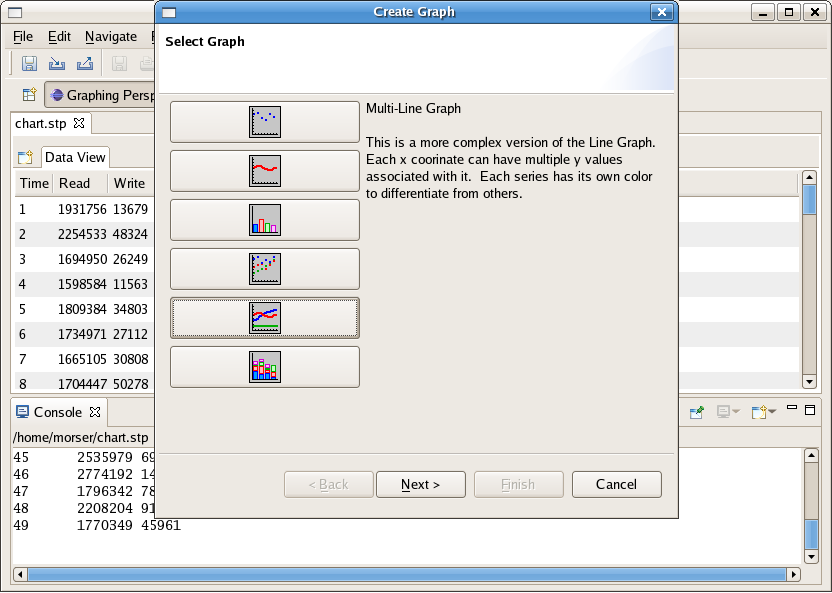
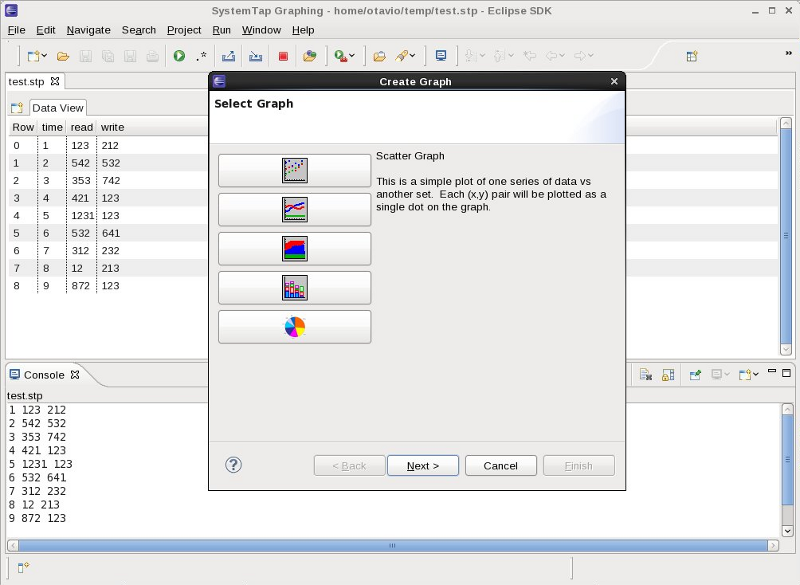
Systemtap: Updating the documentation again.
Fixing chart and installation sections. Renaming SystemTap GUI to
SystemTap plug-in in some areas of the documentation.

diff --git a/systemtap/org.eclipse.linuxtools.systemtap.ui.doc/Linux_Tools_Project/Systemtap/User_Guide/SystemTap-Graphing.html b/systemtap/org.eclipse.linuxtools.systemtap.ui.doc/Linux_Tools_Project/Systemtap/User_Guide/SystemTap-Graphing.html
@@ -2,7 +2,7 @@
 <html xmlns="http://www.w3.org/1999/xhtml">
 	<head>
 		<meta http-equiv="Content-Type" content="text/html; charset=utf-8"/>
-		<title>SystemTap GUI User Guide - SystemTap Graphing</title>
+		<title>SystemTap User Guide - SystemTap Graphing</title>
 		<link type="text/css" rel="stylesheet" href="../../../book.css"/>
 	</head>
 	<body>
@@ -32,28 +32,25 @@
 		<h1 id="SystemTap_Graphing">SystemTap Graphing</h1>
 		<h2 id="Getting_Started_2">Getting Started</h2>
 		<h3 id="Introduction">Introduction</h3>
-		<p>The Graphing Perspective in the SystemTap GUI is a perspective that is active once a user runs a script with the chart option (
+		<p>The Graphing Perspective in the SystemTap Plug-in is a perspective that is active once a user runs a script with the chart option (
 			<b><u>R</u>un-&gt;Run w/ <u>C</u>hart</b>). From this point a 
 			<a href="SystemTap-Graphing.html#DataTable">DataTable </a> is populated with live data as it is parsed from the Console. From the information in the DataTable you can generate the following graphs:
 		</p>
 		<ul>
 			<li>
-				<a href="SystemTap-Graphing.html#Bar_Graph">Bar Graph </a>
-			</li>
-			<li>
-				<a href="SystemTap-Graphing.html#Multi-Bar_Graph">Multi-Bar Graph </a>
+				<a href="SystemTap-Graphing.html#Scatter_Graph">Scatter Graph </a>
 			</li>
 			<li>
 				<a href="SystemTap-Graphing.html#Line_Graph">Line Graph </a>
 			</li>
 			<li>
-				<a href="SystemTap-Graphing.html#Multi-Line_Graph">Multi-Line Graph </a>
+				<a href="SystemTap-Graphing.html#Area_Graph">Area Graph </a>
 			</li>
 			<li>
-				<a href="SystemTap-Graphing.html#Scatter_Graph">Scatter Graph </a>
+				<a href="SystemTap-Graphing.html#Bar_Graph">Bar Graph </a>
 			</li>
 			<li>
-				<a href="SystemTap-Graphing.html#Multi-Scatter_Graph">Multi-Scatter Graph </a>
+				<a href="SystemTap-Graphing.html#Pie_Graph">Pie Graph </a>
 			</li>
 		</ul>
 		<p>These graph types can be used instantiated by using the Graph Wizard once the DataTable is populated. The Graphing Perspective can support multiple graphs from one DataTable. Each are updated and can be viewed by navigating through the tabs shown at the top of each graph.</p>
@@ -148,43 +145,42 @@ probe timer.ms(1000) {
 			</li>
 		</ul>
 		<h3 id="DataGraph_Types">DataGraph Types</h3>
-		<p>Currently there are six graph types built into SystemTap GUI.</p>
+		<p>Currently there are five graph types built into SystemTap Plug-in.</p>
 		<p>These graph types can be used instantiated by using the Graph Wizard once the DataTable is populated. The Graphing Perspective can support multiple graphs from one DataTable. Each are updated and can be viewed by navigating through the tabs shown at the top of each graph.</p>
-		<h4 id="Bar_Graph">Bar Graph</h4>
-		<p>The Bar Graph typically uses bars to show frequencies or values. </p>
-		<p>Creating a Bar Graph will prompt the user for three values. The first is the title and is fully cosmetic. The option to turn on and off the title is given to the user, and its off by default. The second option is X Series; here you select which series of data you want to plot along the X Axis. The third option is the Y Series; here you select which series of data you want to plot along the Y Axis. </p>
+		<h4 id="Scatter_Graph">Scatter Graph</h4>
+		<p>A Scatter Graph uses Cartesian coordinates to show the relation of two or more quantitative variables.</p>
+		<p>Creating a Scatter Graph will prompt the user for three values. The first is the title and is fully cosmetic. The option to turn on and off the title is given to the user, and its off by default. The second option is X Series; here you select which series of data you want to plot along the X Axis. The third option is the Y Series; here you select which series of data you want to plot along the Y Axis.
+			Optionally you can add extra Y Series; here you select another series of data you want to plot along the Y Axis.</p>
 		<p>
-			<img border="0" src="images/Bar.png"/>
-		</p>
-		<h4 id="Multi-Bar_Graph">Multi-Bar Graph</h4>
-		<p>The Multi-Bar Graph is useful for illustrating compounding series data against a fixed interval, such as time. </p>
-		<p>Creating a Multi-Bar Graph will prompt the user for four values. The first is the title and is fully cosmetic. The option to turn on and off the title is given to the user, and its off by default. The second option is X Series; here you select which series of data you want to plot along the X Axis. The third option is the first Y Series; here you select one of the series of data you want to plot along the Y Axis. The fourth option is the second Y series; here you select the other series of data you want to plot along the Y Axis.</p>
-		<p>
-			<img border="0" src="images/Multibar.png"/>
+			<img border="0" src="images/Scatter.png"/>
 		</p>
 		<h4 id="Line_Graph">Line Graph</h4>
 		<p>The Line Graph is traditionally ideal for horozontally depicting non-cumulative data over, say, time.</p>
 		<p>Creating a Line Graph will prompt the user for three values. The first is the title and is fully cosmetic. The option to turn on and off the title is given to the user, and its off by default. The second option is X Series; here you select which series of data you want to plot along the X Axis. The third option is the Y Series; here you select which series of data you want to plot along the Y Axis.
-
+			Optionally you can add extra Y Series; here you select another series of data you want to plot along the Y Axis.</p>
+		<p>
 			<img border="0" src="images/Line.png"/>
 		</p>
-		<h4 id="Multi-Line_Graph">Multi-Line Graph</h4>
-		<p>A Multi-Line Graph is useful for contrasting multiple series of data on a fixed interval, such as time.</p>
-		<p>Creating a Multi-Line Graph will prompt the user for four values. The first is the title and is fully cosmetic. The option to turn on and off the title is given to the user, and its off by default. The second option is X Series; here you select which series of data you want to plot along the X Axis. The third option is the first Y Series; here you select one of the series of data you want to plot along the Y Axis. The fourth option is the second Y series; here you select the other series of data you want to plot along the Y Axis.</p>
+		<h4 id="Area_Graph">Area Graph</h4>
+		<p>The Area Graph is traditionally ideal for horozontally depicting non-cumulative data over, say, time.</p>
+		<p>Creating an Area Graph will prompt the user for three values. The first is the title and is fully cosmetic. The option to turn on and off the title is given to the user, and its off by default. The second option is X Series; here you select which series of data you want to plot along the X Axis. The third option is the Y Series; here you select which series of data you want to plot along the Y Axis.
+			Optionally you can add extra Y Series; here you select another series of data you want to plot along the Y Axis.</p>
 		<p>
-			<img border="0" src="images/Multiline.png"/>
+			<img border="0" src="images/Area.png"/>
 		</p>
-		<h4 id="Scatter_Graph">Scatter Graph</h4>
-		<p>A Scatter Graph uses Cartesian coordinates to show the relation of two or more quantitative variables.</p>
-		<p>Creating a Scatter Graph will prompt the user for three values. The first is the title and is fully cosmetic. The option to turn on and off the title is given to the user, and its off by default. The second option is X Series; here you select which series of data you want to plot along the X Axis. The third option is the Y Series; here you select which series of data you want to plot along the Y Axis.</p>
+		<h4 id="Bar_Graph">Bar Graph</h4>
+		<p>The Bar Graph typically uses bars to show frequencies or values. </p>
+		<p>Creating a Bar Graph will prompt the user for three values. The first is the title and is fully cosmetic. The option to turn on and off the title is given to the user, and its off by default. The second option is X Series; here you select which series of data you want to plot along the X Axis. The third option is the Y Series; here you select which series of data you want to plot along the Y Axis. 
+			Optionally you can add extra Y Series; here you select another series of data you want to plot along the Y Axis.</p>
 		<p>
-			<img border="0" src="images/Scatter.png"/>
+			<img border="0" src="images/Bar.png"/>
 		</p>
-		<h4 id="Multi-Scatter_Graph">Multi-Scatter Graph</h4>
-		<p>The Multi-Scatter Graph is useful for comparing two sets of series data with multiple Y values on the same X value.</p>
-		<p>Creating a Multi-Scatter Graph will prompt the user for four values. The first is the title and is fully cosmetic. The option to turn on and off the title is given to the user, and its off by default. The second option is X Series; here you select which series of data you want to plot along the X Axis. The third option is the first Y Series; here you select one of the series of data you want to plot along the Y Axis. The fourth option is the second Y series; here you select the other series of data you want to plot along the Y Axis.</p>
+		<h4 id="Pie_Graph">Pie Graph</h4>
+		<p>The Pie Graph typically uses bars to show percentages. </p>
+		<p>Creating a Bar Graph will prompt the user for three values. The first is the title and is fully cosmetic. The option to turn on and off the title is given to the user, and its off by default. The second option is X Series; here you select which series of data you want to plot along the X Axis. The third option is the Y Series; here you select which series of data you want to plot along the Y Axis. 
+			Optionally you can add extra Y Series; here you select another series of data you want to plot along the Y Axis.</p>
 		<p>
-			<img border="0" src="images/Multiscatter.png"/>
+			<img border="0" src="images/Pie.png"/>
 		</p>
 		<h3 id="Filters">Filters</h3>
 		<p>Filters are screens that you can set on your DataTable to limit the quantity of samples you wish to work with. Filters are very often used in restricting the sheer amount of information available to make data tables and graphs more substantial to people.</p>
@@ -470,8 +466,8 @@ probe timer.ms(1000) {
 					</a>
 				</td>
 				<td style="width: 60%" align="center">
-					<a href="User-Guide.html" title="SystemTap GUI User Guide">
-						<img alt="SystemTap GUI User Guide" border="0" src="../../../images/home.gif"/>
+					<a href="User-Guide.html" title="SystemTap User Guide">
+						<img alt="SystemTap User Guide" border="0" src="../../../images/home.gif"/>
 					</a>
 				</td>
 				<td style="width: 20%" align="right">

diff --git a/systemtap/org.eclipse.linuxtools.systemtap.ui.doc/Linux_Tools_Project/Systemtap/User_Guide/SystemTap-IDE.html b/systemtap/org.eclipse.linuxtools.systemtap.ui.doc/Linux_Tools_Project/Systemtap/User_Guide/SystemTap-IDE.html
@@ -2,7 +2,7 @@
 <html xmlns="http://www.w3.org/1999/xhtml">
 	<head>
 		<meta http-equiv="Content-Type" content="text/html; charset=utf-8"/>
-		<title>SystemTap GUI User Guide - SystemTap IDE</title>
+		<title>SystemTap User Guide - SystemTap IDE</title>
 		<link type="text/css" rel="stylesheet" href="../../../book.css"/>
 	</head>
 	<body>
@@ -12,7 +12,7 @@
 			</tr>
 			<tr>
 				<td style="width: 20%" align="left">
-					<a href="User-Guide.html" title="SystemTap GUI User Guide">
+					<a href="User-Guide.html" title="SystemTap User Guide">
 						<img alt="Previous" border="0" src="../../../images/prev.gif"/>
 					</a>
 				</td>
@@ -24,7 +24,7 @@
 				</td>
 			</tr>
 			<tr>
-				<td style="width: 20%" align="left" valign="top">SystemTap GUI User Guide</td>
+				<td style="width: 20%" align="left" valign="top">SystemTap User Guide</td>
 				<td style="width: 60%" align="center"></td>
 				<td style="width: 20%" align="right" valign="top">SystemTap Graphing</td>
 			</tr>
@@ -34,7 +34,7 @@
 		<h3 id="IDE_Tutorial">IDE Tutorial</h3>
 		<h4 id="Lesson_1:_Getting_Started">Lesson 1: Getting Started</h4>
 		<p>In this tutorial we will orient you with IDE Perspective and its functions. At this point we assume
-			that you are able to run Systemtap GUI and are unfamiliar with how to procede. If you cannot yet start
+			that you are able to run Systemtap plug-in and are unfamiliar with how to procede. If you cannot yet start
 			the application, please refer to our 
 			<a href="#Installation">Installation help page</a>
 
@@ -155,11 +155,11 @@
 		<ul>
 			<li>
 				<img border="0" src="images/Graphing.png"/> 
-				<b>Graphing Perspective</b> - This perspective is invoked when the user calls the Run /w Chart option. It defaults to showing a data table containing the script results and is capable of producing six different chart types: Line Graph, Multi-Line Graph, Bar Graph, Multi-Bar Graph, Scatter Graph, and Multi-Scatter Graph.
+				<b>Graphing Perspective</b> - This perspective is invoked when the user calls the Run /w Chart option. It defaults to showing a data table containing the script results and is capable of producing six different chart types: Scatter Graph, Line Graph, Area Graph, Bar Graph, Pie Graph.
 			</li>
 			<li>
 				<img border="0" src="images/Dash.png"/>
-				<b>Dashboard Perspective</b> - This perspective is capable of storing meta-data related to each graph such as filters, aggregates, and display options in addition to showing a "dashboard" interface with multiple graphs updating simultaneously. 
+				<b>Dashboard Perspective</b> - This perspective is capable of storing meta-data related to each graph such as filters, aggregates, and display options in addition to showing a "dashboard" interface with multiple graphs updating simultaneously.
 			</li>
 		</ul>
 		<h3 id="STP_Editor">STP Editor</h3>
@@ -190,10 +190,16 @@
 		<p>
 			<img border="0" src="images/Function.png"/>
 		</p>
+		<p>The default behavior of this view is to look for functions in the tapset library in the local machine. To look for functions in the same machine used to run the SystemTap scripts, go to Window-&gt;Preferences, select SystemTap-&gt;SystemTap IDE and check the 
+			<i>Use remote connection to load SystemTap probes and functions</i> option. Don't forget to configure the remote server used by remote execution in SystemTap-&gt;Remote Server.
+		</p>
 		<h3 id="Kernel_Browser">Kernel Browser</h3>
 		<p>The Kernel Source Browser is used to display the kernel tree.  This provides you with a quick way to locate places to add probes.  Any file in the Kernel Source tree can be opened by double clicking on it.  This will open up the selected file in the Editor view.  You can then double click on the ruler next to any line that you wish to probe.  If SystemTap can probe that line a probe point will be inserted at the end of the script you were most recently working on.  If the line can't be probed, an error message will be displayed. </p>
 		<p>
 			<img border="0" src="images/KernelSource.png"/>
+		</p>
+		<p>To use this feature it is necessary to configure the 
+			<a href="http://wiki.eclipse.org/Linux_Tools_Project/Systemtap/User_Guide#Kernel_Source_Location">Kernel Source Location</a>.
 		</p>
 		<h3 id="Probe_Alias_Browser">Probe Alias Browser</h3>
 		<p>The Probe Alias Browser lists all of the probe aliases that are defined in the tapset library. Probes are grouped based on their type. In addition to the list of probes, each probe lists all of the variables that it has access to. Each variable is listed with an icon that represents its type. Types are as follows: </p>
@@ -211,6 +217,9 @@
 		<p>If you double click on any probe alias, probe point will be added to the end of the active editor. Also if you right click on a probe and click "View Definition" the tapset file where the probe is defined will be opened. </p>
 		<p>
 			<img border="0" src="images/ProbeAlias.png"/>
+		</p>
+		<p>The default behavior of this view is to look for probes in the local machine. To look for probes in the same machine used to run the SystemTap scripts, go to Window-&gt;Preferences, select SystemTap-&gt;SystemTap IDE and check the 
+			<i>Use remote connection to load SystemTap probes and functions</i> option. Don't forget to configure the remote server used by remote execution in SystemTap-&gt;Remote Server.
 		</p>
 		<h2 id="Tasks">Tasks</h2>
 		<h3 id="Creating_SystemTap_Scripts">Creating SystemTap Scripts</h3>
@@ -1025,13 +1034,13 @@ Match a position that is not a word boundary.
 		<table class="navigation" style="width: 100%;" border="0" summary="navigation">
 			<tr>
 				<td style="width: 20%" align="left">
-					<a href="User-Guide.html" title="SystemTap GUI User Guide">
+					<a href="User-Guide.html" title="SystemTap User Guide">
 						<img alt="Previous" border="0" src="../../../images/prev.gif"/>
 					</a>
 				</td>
 				<td style="width: 60%" align="center">
-					<a href="User-Guide.html" title="SystemTap GUI User Guide">
-						<img alt="SystemTap GUI User Guide" border="0" src="../../../images/home.gif"/>
+					<a href="User-Guide.html" title="SystemTap User Guide">
+						<img alt="SystemTap User Guide" border="0" src="../../../images/home.gif"/>
 					</a>
 				</td>
 				<td style="width: 20%" align="right">
@@ -1041,7 +1050,7 @@ Match a position that is not a word boundary.
 				</td>
 			</tr>
 			<tr>
-				<td style="width: 20%" align="left" valign="top">SystemTap GUI User Guide</td>
+				<td style="width: 20%" align="left" valign="top">SystemTap User Guide</td>
 				<td style="width: 60%" align="center"></td>
 				<td style="width: 20%" align="right" valign="top">SystemTap Graphing</td>
 			</tr>

diff --git a/systemtap/org.eclipse.linuxtools.systemtap.ui.doc/Linux_Tools_Project/Systemtap/User_Guide/User-Guide.html b/systemtap/org.eclipse.linuxtools.systemtap.ui.doc/Linux_Tools_Project/Systemtap/User_Guide/User-Guide.html
@@ -2,13 +2,13 @@
 <html xmlns="http://www.w3.org/1999/xhtml">
 	<head>
 		<meta http-equiv="Content-Type" content="text/html; charset=utf-8"/>
-		<title>SystemTap GUI User Guide</title>
+		<title>SystemTap User Guide</title>
 		<link type="text/css" rel="stylesheet" href="../../../book.css"/>
 	</head>
 	<body>
 		<table class="navigation" style="width: 100%;" border="0" summary="navigation">
 			<tr>
-				<th style="width: 100%" align="center" colspan="3">SystemTap GUI User Guide</th>
+				<th style="width: 100%" align="center" colspan="3">SystemTap User Guide</th>
 			</tr>
 			<tr>
 				<td style="width: 20%" align="left"></td>
@@ -26,9 +26,9 @@
 			</tr>
 		</table><hr/>
 		<h1 id="Overview">Overview</h1>
-		<p>Welcome to the SystemTap GUI Help pages. This section is intended to provide users with information and links about the SystemTap scripting language itself, in addition to a brief introduction to SystemTap GUI's structure for new users and a brief explanation of SystemTap.</p>
-		<h2 id="SystemTap_GUI.27s_Plugin_Design">SystemTap GUI's Plugin Design</h2>
-		<p>SystemTap GUI was built with a modular goal in mind, namely, to provide the application as a series of plugins so that users may obtain just the ones they need without having to use a heavy-weight application should if they didn't need to. The most common example of this is to ship the Dashboard plugin independently, allowing non-SystemTap savvy users the ability to execute modules without having to write any scripts. The application in its complete state includes three perspective, each with a specific goal:</p>
+		<p>Welcome to the SystemTap plug-in Help pages. This section is intended to provide users with information and links about the SystemTap scripting language itself, in addition to a brief introduction to SystemTap plug-in's structure for new users and a brief explanation of SystemTap.</p>
+		<h2 id="SystemTap_Plugin_Design">SystemTap Plugin Design</h2>
+		<p>SystemTap plug-in was built with a modular goal in mind, namely, to provide the application as a series of plugins so that users may obtain just the ones they need without having to use a heavy-weight application should if they didn't need to. The most common example of this is to ship the Dashboard plugin independently, allowing non-SystemTap savvy users the ability to execute modules without having to write any scripts. The application in its complete state includes three perspective, each with a specific goal:</p>
 		<ul>
 			<li>
 				<b>IDE Perspective</b> - Contains script editor and Function, Kernel Source, and Probe Alias browsers to assist in the creation and editting of SystemTap scripts.
@@ -45,9 +45,7 @@
 		<p>SystemTap provides free software (GPL) infrastructure to simplify the gathering of information about the running Linux kernel. This assists diagnosis of a performance or functional problem. SystemTap eliminates the need for the developer to go through the tedious and disruptive instrument, recompile, install, and reboot sequence that may be otherwise required to collect data.</p>
 		<p>SystemTap provides a simple command line interface and scripting language for writing instrumentation for a live running kernel. The internal tapset library as well as the published samples can be used to aid reuse and abstraction.</p>
 		<p>Current project members include Red Hat, IBM, Intel, and Hitachi.</p>
-		<h2 id="Configuration_Tutorial">Configuration Tutorial</h2>
-		<p>This tutorial is written to guide a new SystemTap user through some basic post-installation setup in
-			order to get the most out of the application.</p>
+		<h2 id="Installing">Installing</h2>
 		<h3 id="Requirements">Requirements</h3>
 		<p>
 			<b>Hardware Requirements:</b>
@@ -61,20 +59,31 @@
 		<ul>
 			<li>
 				<ul>
-					<li>Linux kernel v2.6.14 or newer</li>
-					<li>Eclipse v3.4.1</li>
+					<li>Linux kernel v2.6.14 or newer
+						<ul>
+							<li>Linux kernel devel and debuginfo packages</li>
+						</ul>
+					</li>
+					<li>Eclipse v3.8/v4.2 or newer</li>
 					<li>SystemTap v0.7 or newer</li>
 				</ul>
 			</li>
 		</ul>
+		<p>Once  all dependencies are installed, the easiest way to install the SystemTap plug-in for Eclipse is through the 
+			<b>
+				<i>Software Updates and Add-ons</i>
+			</b> menu. For information on how to use this menu, refer to 
+			<a href="http://wiki.eclipse.org/Linux_Tools_Project/PluginInstallHelp#Installing_Updates_From_the_Linux_Tools_Update_Site">this link</a>.
+		</p>
 		<h3 id="Kernel_Source_Location">Kernel Source Location</h3>
 		<p>In order to use the kernel source browser you'll need to point it to the kernel source initially. Do this by either selecting the Kernel Source Browser in the browser pane or by going to 
-			<b><u>W</u>indow-&gt;<u>P</u>references</b>, then going to the SystemTap-&gt;IDE-&gt;'Kernel Source Path' tab and setting the location there. This configuration detail is relevent to the IDE Perspective only.
+			<b><u>W</u>indow-&gt;<u>P</u>references</b>, then going to the SystemTap-&gt;IDE-&gt;'Kernel Source Path' tab. It is possible to explore the kernel source in your local machine or in the same machine used to run SystemTap scripts. Enter your option and inform the kernel source location. If you selected the remote option, it is necessary to set up the remote machine information at SystemTap-&gt;'Remote Server' tab.
+			This configuration detail is relevent to the IDE Perspective only.
 		</p>
 		<h3 id="Tutorials">Tutorials</h3>
-		<p>If you haven't already, you will want to take the IDE and Graphing tutorials. You can find them in the Getting Started section of each perspective's help pages. These tutorial provides fundamental knowledge on graphing in SystemTap GUI.</p>
+		<p>If you haven't already, you will want to take the IDE and Graphing tutorials. You can find them in the Getting Started section of each perspective's help pages. These tutorial provides fundamental knowledge on graphing in SystemTap plug-in.</p>
 		<h3 id="Preferences_.28Optional.29">Preferences (Optional)</h3>
-		<p>Finally, you may want to set certain non-essential preferences before using SystemTap GUI regularly. Use
+		<p>Finally, you may want to set certain non-essential preferences before using SystemTap plug-in regularly. Use
 
 			<b><u>W</u>indow-&gt;<u>P</u>references</b> to access the Preferences page. 
 		</p>

diff --git a/systemtap/org.eclipse.linuxtools.systemtap.ui.doc/Linux_Tools_Project/Systemtap/User_Guide/Updating-This-Document.html b/systemtap/org.eclipse.linuxtools.systemtap.ui.doc/Linux_Tools_Project/Systemtap/User_Guide/Updating-This-Document.html
@@ -2,7 +2,7 @@
 <html xmlns="http://www.w3.org/1999/xhtml">
 	<head>
 		<meta http-equiv="Content-Type" content="text/html; charset=utf-8"/>
-		<title>SystemTap GUI User Guide - Updating This Document</title>
+		<title>SystemTap User Guide - Updating This Document</title>
 		<link type="text/css" rel="stylesheet" href="../../../book.css"/>
 	</head>
 	<body>
@@ -38,8 +38,8 @@
 					</a>
 				</td>
 				<td style="width: 60%" align="center">
-					<a href="User-Guide.html" title="SystemTap GUI User Guide">
-						<img alt="SystemTap GUI User Guide" border="0" src="../../../images/home.gif"/>
+					<a href="User-Guide.html" title="SystemTap User Guide">
+						<img alt="SystemTap User Guide" border="0" src="../../../images/home.gif"/>
 					</a>
 				</td>
 				<td style="width: 20%" align="right"></td>

diff --git a/systemtap/org.eclipse.linuxtools.systemtap.ui.doc/Linux_Tools_Project/Systemtap/User_Guide/SystemTap-Dashboard.html b/systemtap/org.eclipse.linuxtools.systemtap.ui.doc/Linux_Tools_Project/Systemtap/User_Guide/SystemTap-Dashboard.html
@@ -2,7 +2,7 @@
 <html xmlns="http://www.w3.org/1999/xhtml">
 	<head>
 		<meta http-equiv="Content-Type" content="text/html; charset=utf-8"/>
-		<title>SystemTap GUI User Guide - SystemTap Dashboard</title>
+		<title>SystemTap User Guide - SystemTap Dashboard</title>
 		<link type="text/css" rel="stylesheet" href="../../../book.css"/>
 	</head>
 	<body>
@@ -381,8 +381,8 @@
 					</a>
 				</td>
 				<td style="width: 60%" align="center">
-					<a href="User-Guide.html" title="SystemTap GUI User Guide">
-						<img alt="SystemTap GUI User Guide" border="0" src="../../../images/home.gif"/>
+					<a href="User-Guide.html" title="SystemTap User Guide">
+						<img alt="SystemTap User Guide" border="0" src="../../../images/home.gif"/>
 					</a>
 				</td>
 				<td style="width: 20%" align="right">
